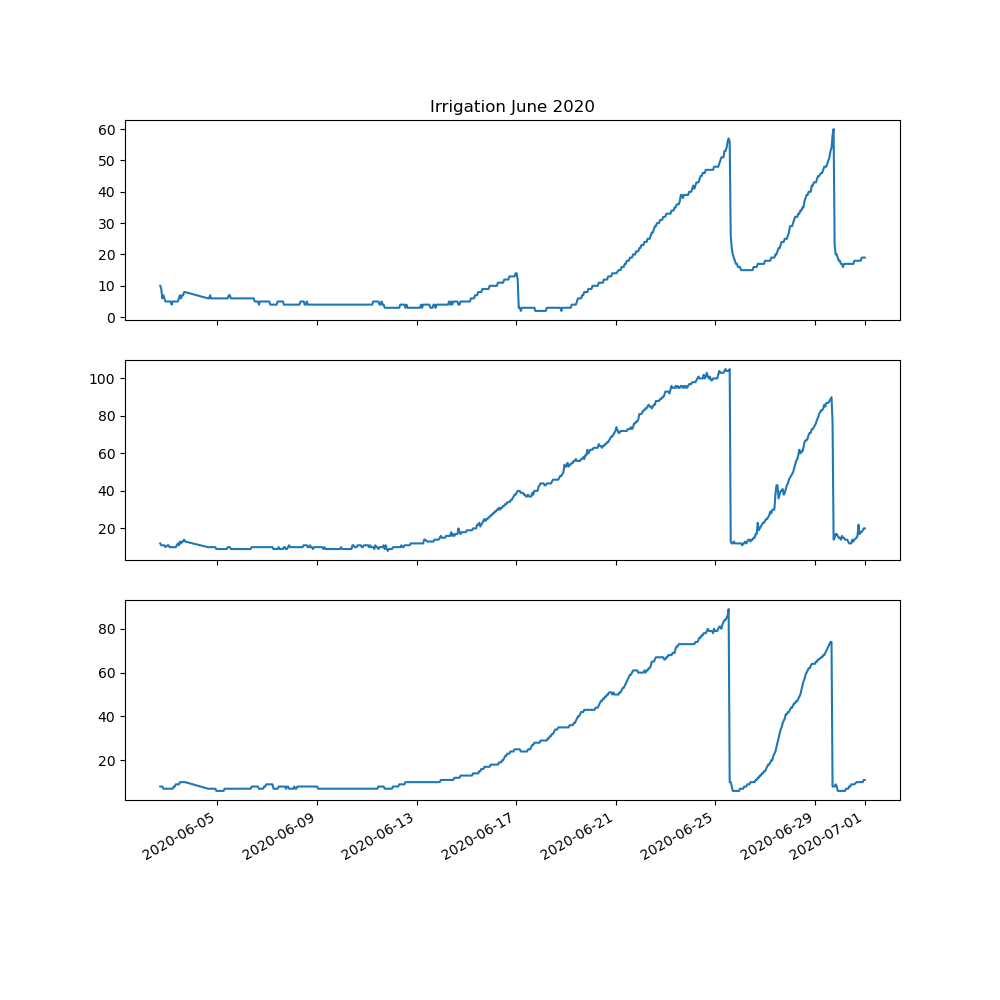
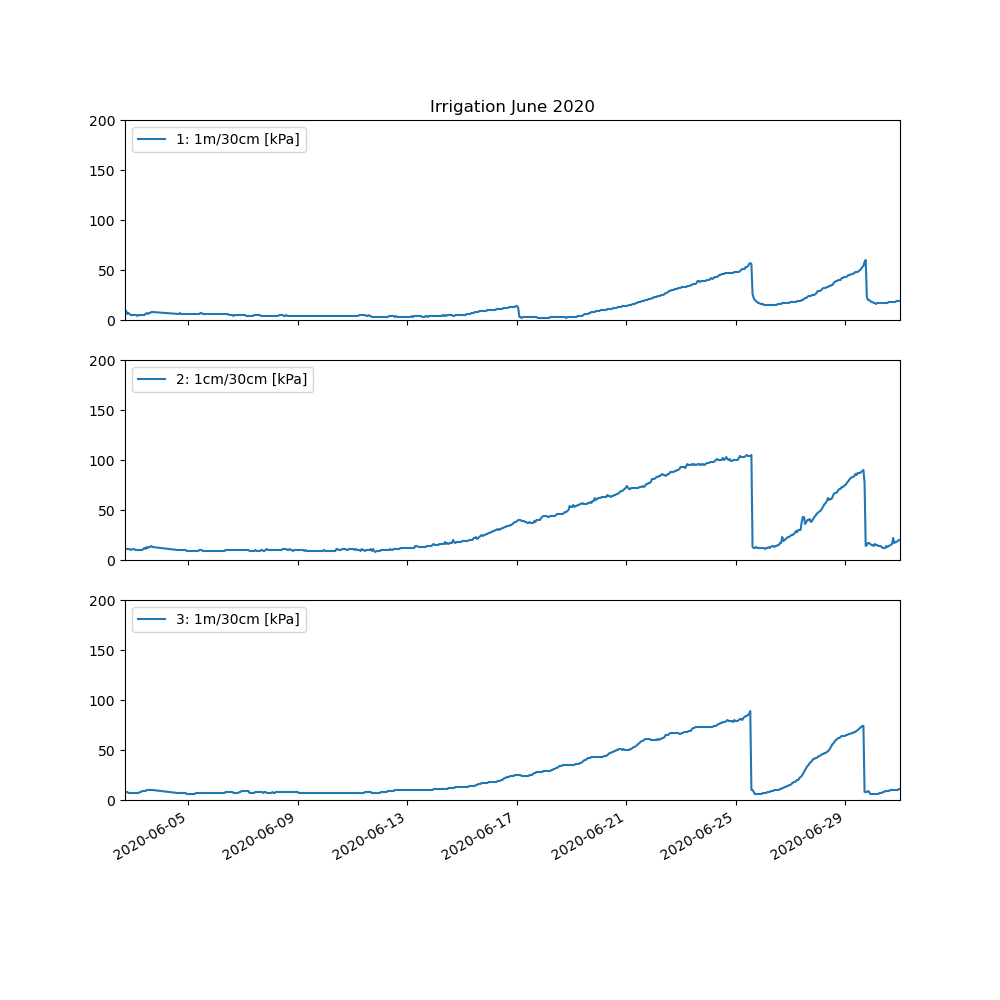
ADD plot_one() to plot on each axe, includes plot formating

diff --git a/process_irrigation.py b/process_irrigation.py
@@ -28,6 +28,19 @@ def clean_data(data):
     data[data == 200] = np.nan
 
 
+def plot_one(ax, time, data, label):
+    '''
+    Plot one graph on an ax, third of a figure
+    '''
+    # draw the measures
+    ax.plot(time, data, label=label)
+
+    # set the layout
+    ax.set_xlim(time[0], time[-1])
+    ax.set_ylim(0, 200)
+    ax.legend(loc='upper left')
+
+
 def save_plot_to_file(dataframe,
                       title, labels,
                       start_date, end_date,
@@ -44,7 +57,7 @@ def save_plot_to_file(dataframe,
     axes[0].set_title(title)
 
     for i in range(3):
-        axes[i].plot(time, data[i], label=labels[i])
+        plot_one(axes[i], time, data[i], labels[i])
 
     fig.autofmt_xdate()
     fig.savefig(filename)
